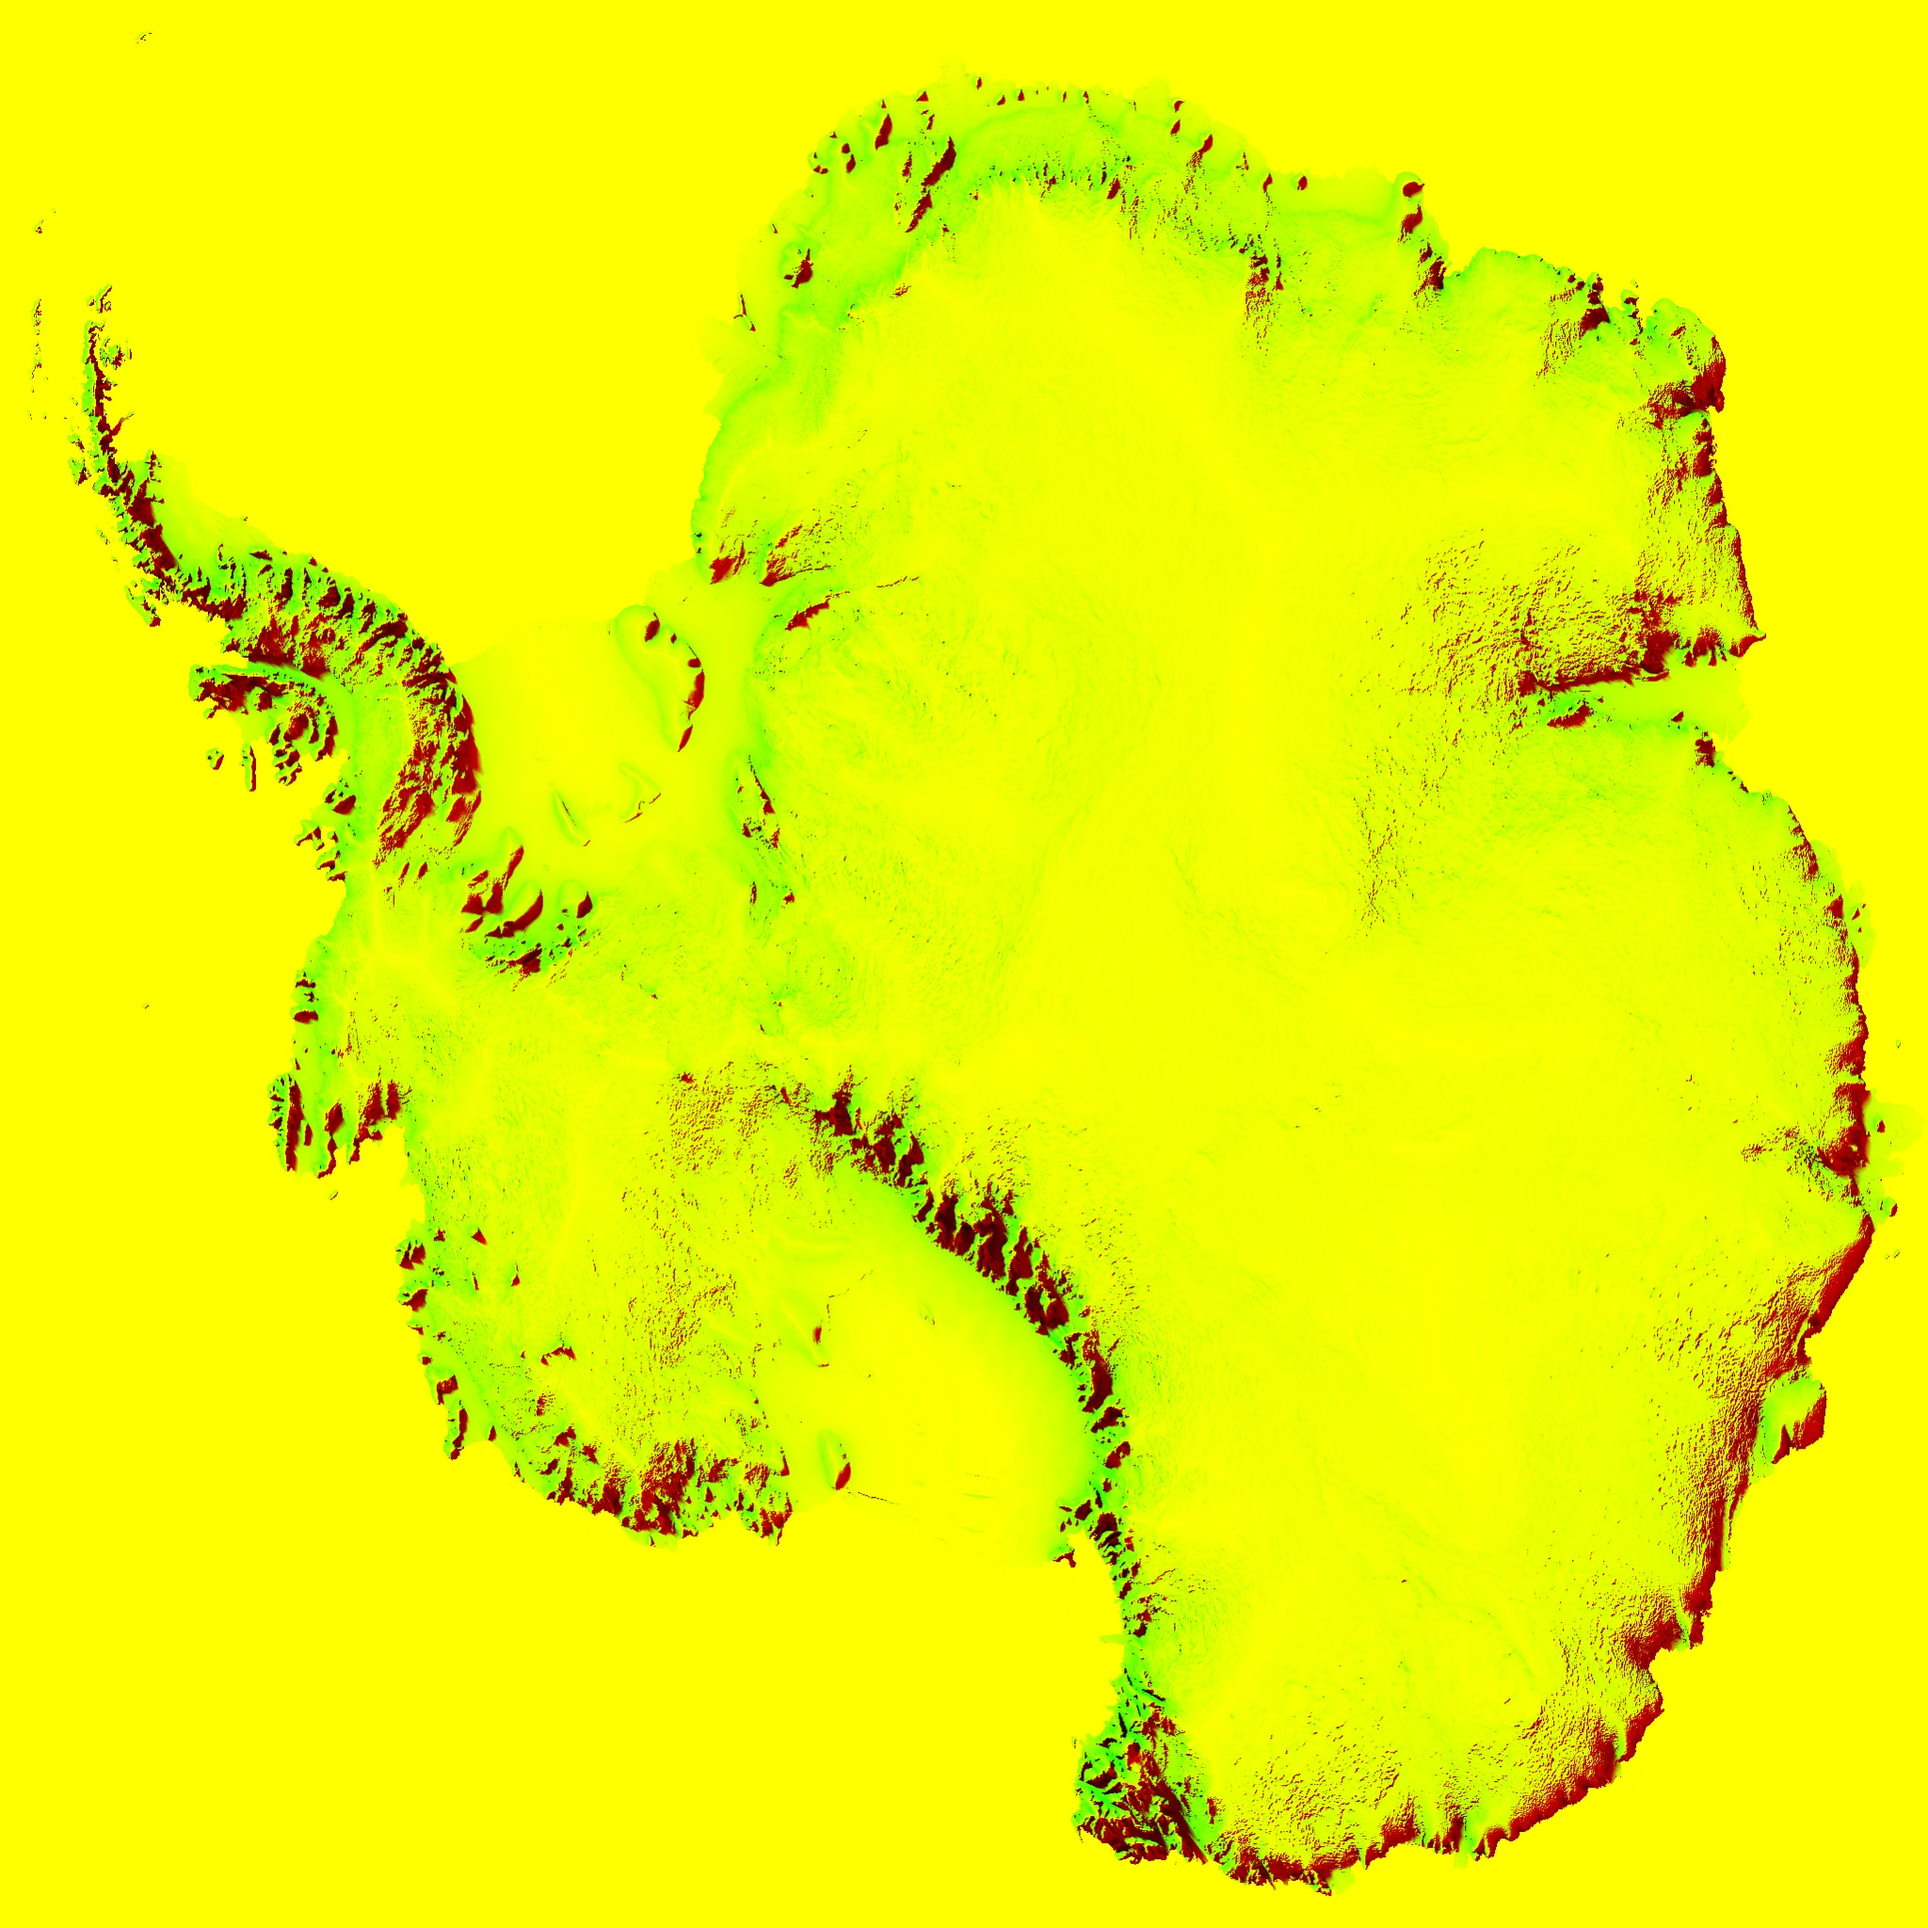
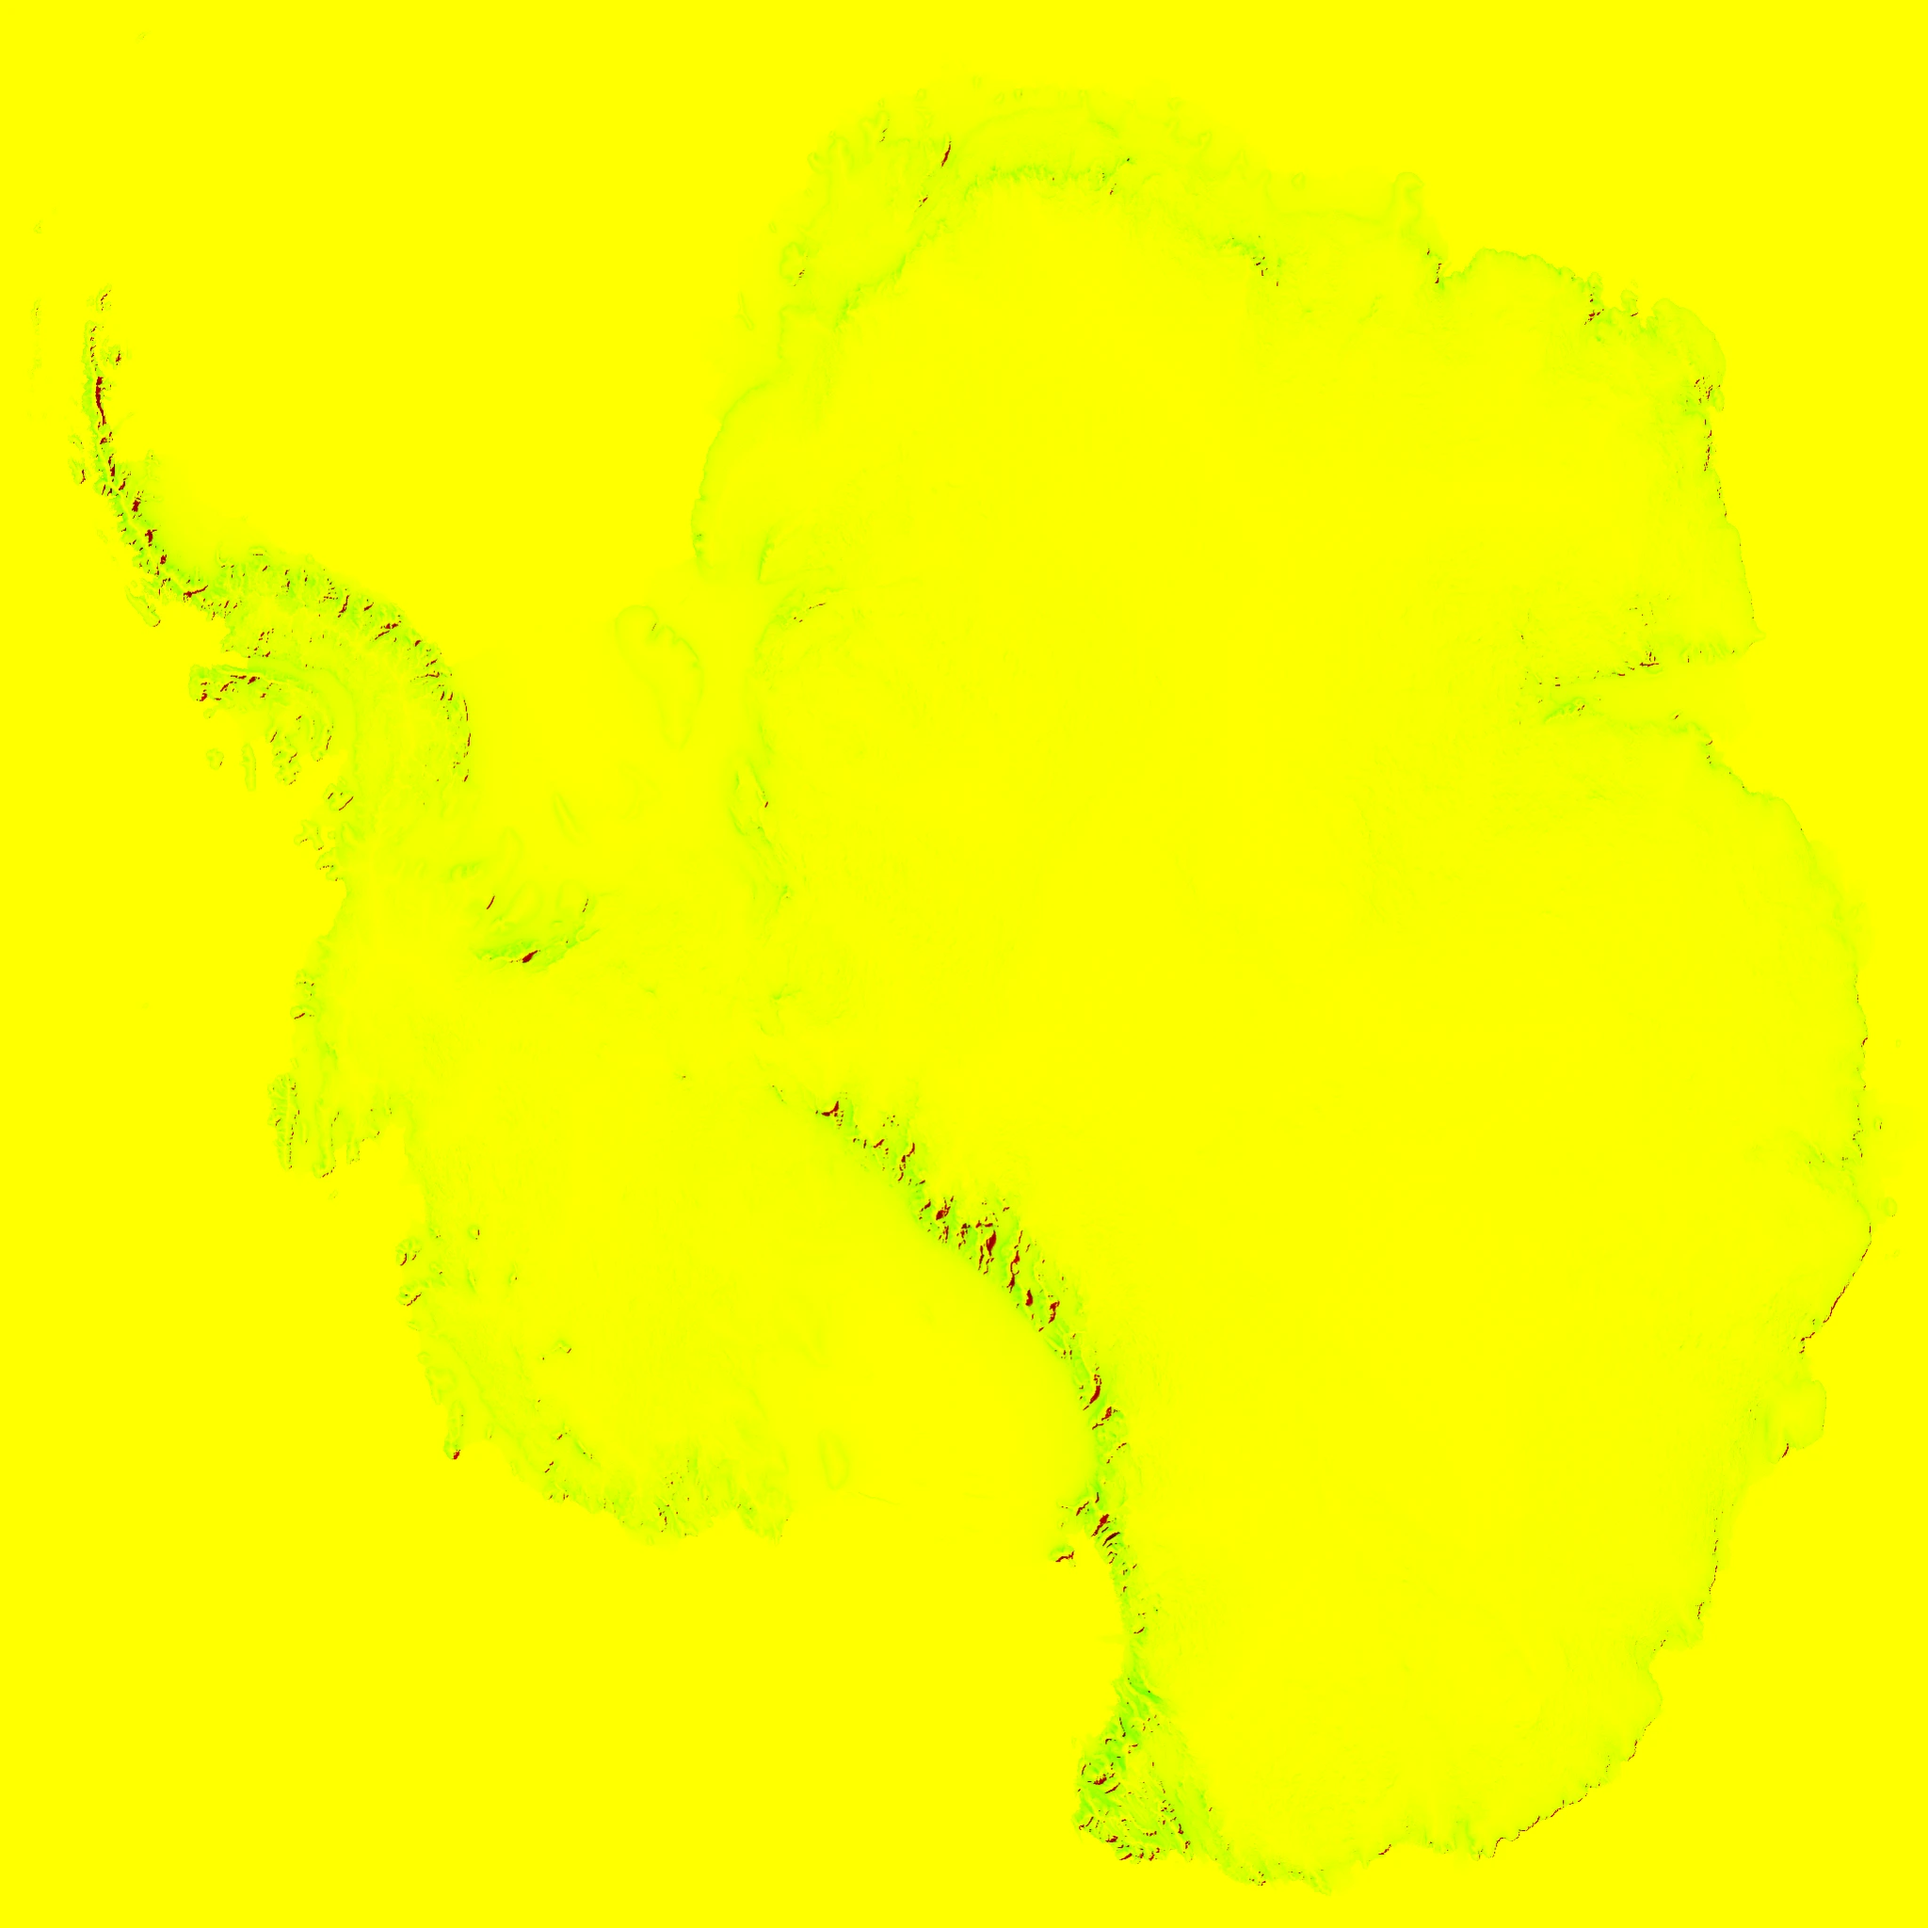
Bajar la exageración vertical del continente de ×50 a ×10 (#100)
Texturas de relieve y sombras regeneradas con pnpm terrain: pesan casi la mitad. Las pruebas del vuelo del avión ya no dependen de la exageración.

Changed region(s): [[0.0312, 0.0312, 1.0, 1.0], [0.7188, 0.8125, 0.75, 0.8438]]

diff --git a/packages/core/test/voyage.test.ts b/packages/core/test/voyage.test.ts
@@ -284,7 +284,7 @@ describe('flight altitude', () => {
       highest = Math.max(highest, ground(t));
       expect(flightClearance(t, terrain), `t=${t}`).toBeGreaterThanOrEqual(ground(t));
     }
-    expect(highest).toBeGreaterThan(1); // the path does cross relief
+    expect(highest).toBeGreaterThan(worldHeight(160)); // the path does cross relief
   });
 
   it('climbs and descends without steps', () => {
@@ -330,9 +330,10 @@ describe('flight altitude', () => {
     // Soon after take-off it is only as high as the hills of Navarino need.
     expect(flightClearance(0.02, terrain)).toBeLessThan(FLIGHT_CRUISE * 0.6);
     // Then it keeps climbing, to pass over the storm of the Drake: no step between two samples.
+    // The step is measured against the storm it climbs over, which does not change with the exaggeration.
     for (let i = 20; i < 300; i++) {
       const rise = flightClearance((i + 1) / 1000, terrain) - flightClearance(i / 1000, terrain);
-      expect(rise, `t=${i / 1000}`).toBeLessThan(FLIGHT_CRUISE * 0.1);
+      expect(rise, `t=${i / 1000}`).toBeLessThan(DRAKE_STORM.cloudTop * 0.02);
     }
     // Past the storm it is back at its cruise height.
     expect(flightClearance(0.85, terrain)).toBeCloseTo(FLIGHT_CRUISE);

diff --git a/packages/core/test/terrain.test.ts b/packages/core/test/terrain.test.ts
@@ -14,7 +14,7 @@ import {
 
 describe('terrain', () => {
   it('exports expected constants', () => {
-    expect(VERTICAL_EXAGGERATION).toBe(50);
+    expect(VERTICAL_EXAGGERATION).toBe(10);
     expect(CONTOUR_M).toBe(250);
     expect(TERRAIN_BOX.minX).toBeLessThan(TERRAIN_BOX.maxX);
     expect(TERRAIN_BOX.minY).toBeLessThan(TERRAIN_BOX.maxY);

diff --git a/packages/core/src/relief.ts b/packages/core/src/relief.ts
@@ -4,7 +4,7 @@
  */
 
 /** Heights are multiplied by this when drawn. The UI legend states it. */
-export const VERTICAL_EXAGGERATION = 50;
+export const VERTICAL_EXAGGERATION = 10;
 
 /** Contour interval in meters (thin pencil lines; every 4th one is inked). */
 export const CONTOUR_M = 250;
